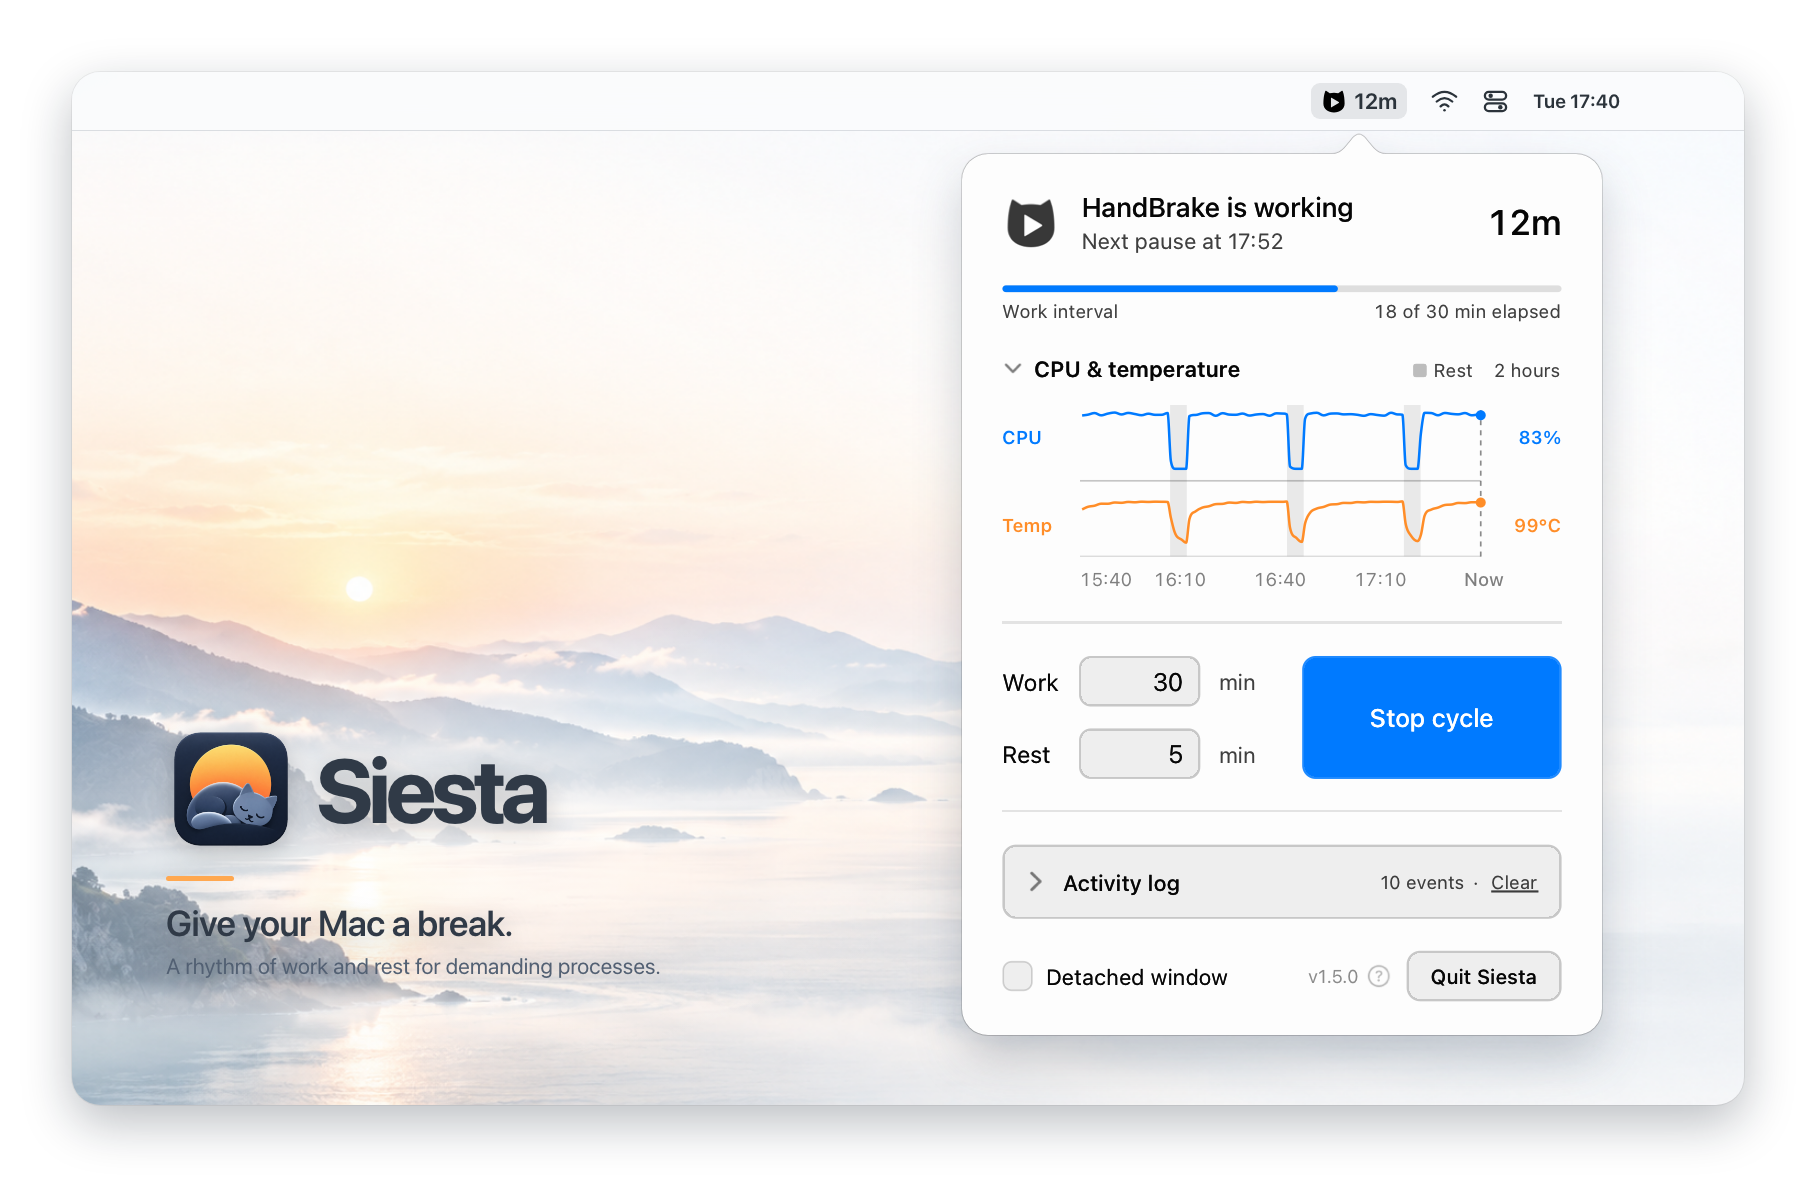
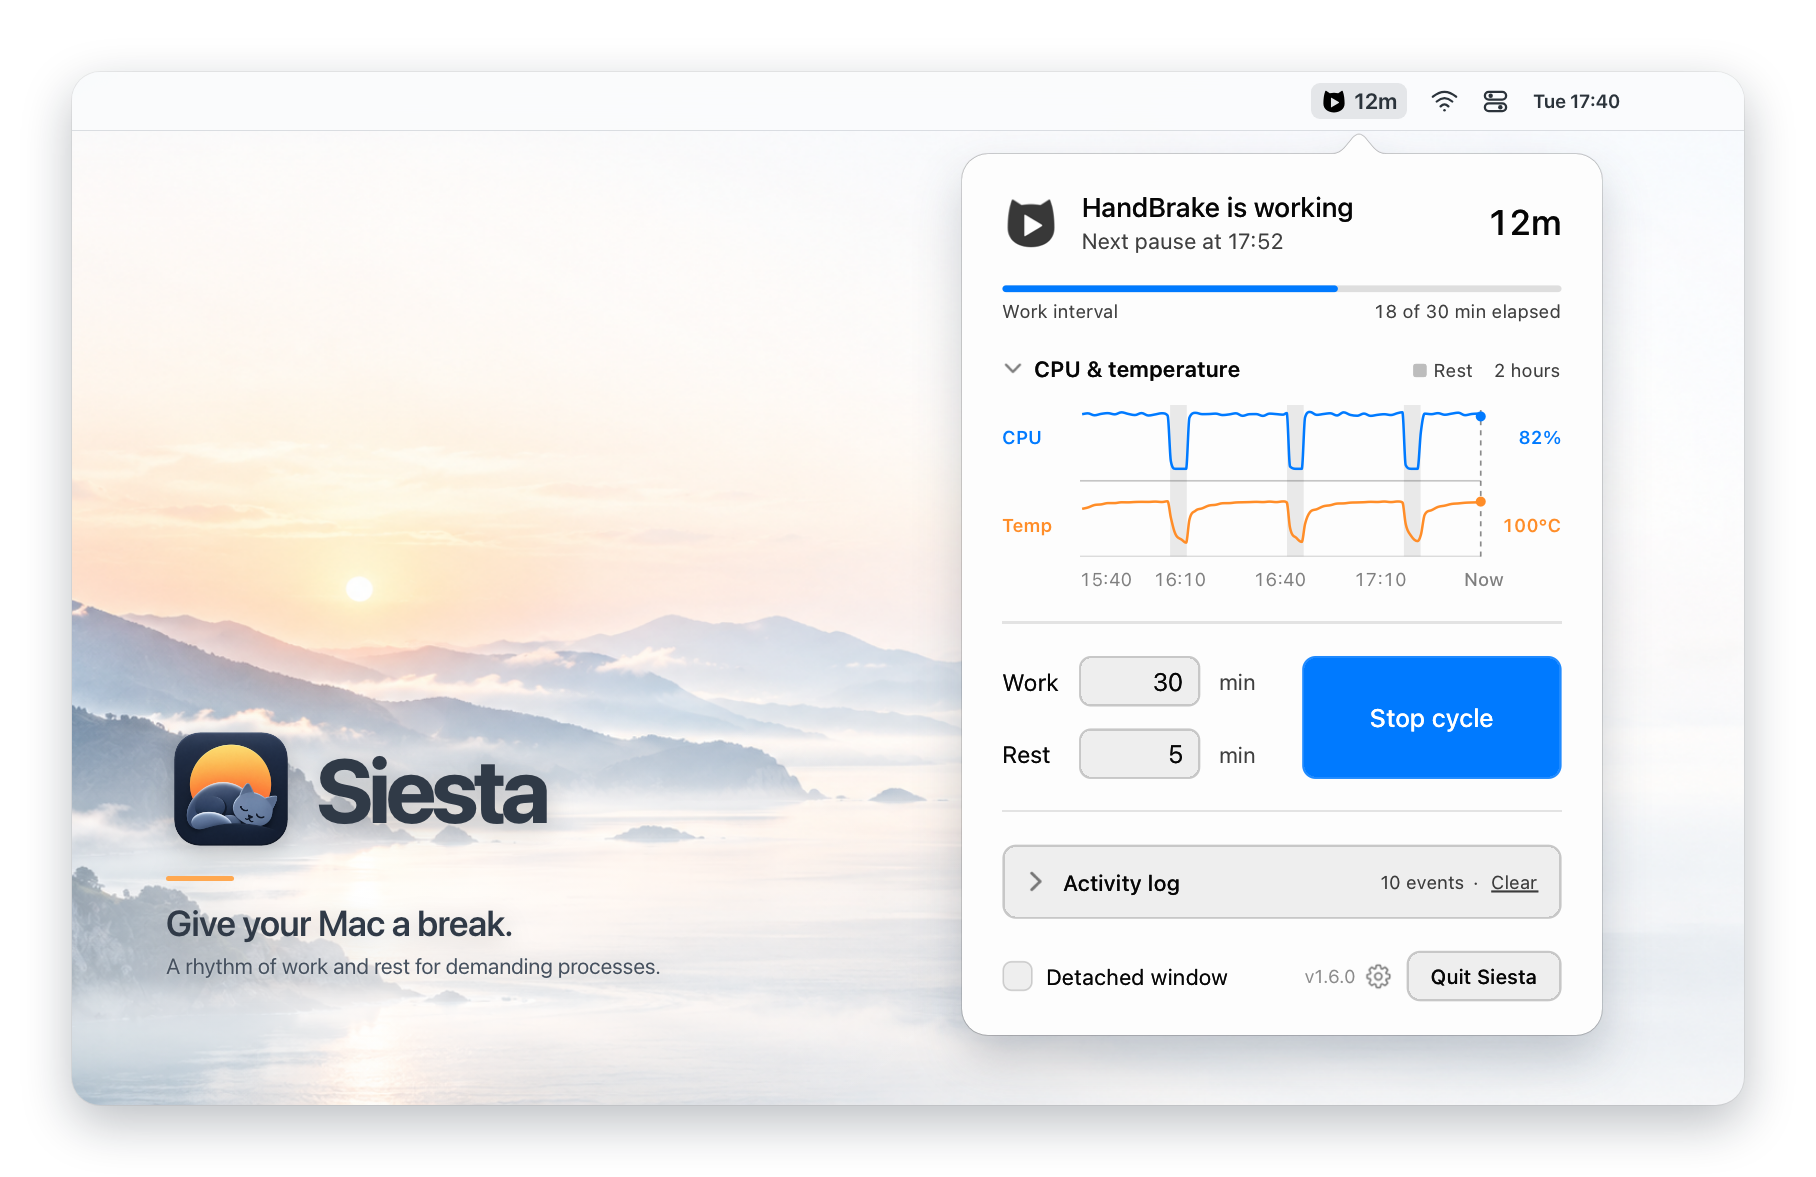
Version 1.6.0; README: settings section and image, hold the chart, automatic updates, new preference keys

Changed region(s): [[0.0308, 0.7341, 0.2467, 0.9176], [0.7093, 0.8258, 0.7709, 0.8564], [0.6167, 0.3364, 0.6476, 0.367]]

diff --git a/Sources/main.swift b/Sources/main.swift
@@ -2028,10 +2028,10 @@ final class App: NSObject, NSApplicationDelegate, NSTextFieldDelegate {
         guard let i = CommandLine.arguments.firstIndex(of: "--debug-scene") else { return }
         let out = URL(fileURLWithPath: CommandLine.arguments[i + 2])
         refresh()   // the stopped state first, as at launch: starting the cycle then reveals the chart
-        if name == "settings" {   // the settings page with the pointer on the back button, as on the board
+        if name == "settings" {   // the settings page; `--debug-hover` puts the pointer on the back button, as on the board
             lastCheck = (Calendar.current.date(bySettingHour: 17, minute: 12, second: 0, of: Date())!, "ok")
             showSettings(true, animated: false)
-            backButton.showHover()
+            if CommandLine.arguments.contains("--debug-hover") { backButton.showHover() }
             layoutPanel()
             DispatchQueue.main.asyncAfter(deadline: .now() + 0.8) { self.renderPanel(to: out) }
             return

diff --git a/README.md b/README.md
@@ -46,7 +46,7 @@ It changes to show whether the cycle is stopped, HandBrake is encoding, taking a
 ## The panel
 #### Everything Siesta knows, one click away.
 
-Clicking the menu bar icon opens a popover with the current state and a countdown to the next change, a thin progress line for the running interval, the Work and Rest minutes, the Start/Stop cycle button, a collapsible activity log and a Quit button. "Next pause at" and "Resumes at" show exact times, because pauses start on a whole minute and rests last exactly the minutes you set.
+Clicking the menu bar icon opens a popover with the current state and a countdown to the next change, a thin progress line for the running interval, the Work and Rest minutes, the Start/Stop cycle button, a collapsible activity log, a gear that opens the settings and a Quit button. "Next pause at" and "Resumes at" show exact times, because pauses start on a whole minute and rests last exactly the minutes you set.
 
 You can change Work and Rest while the cycle runs: the new value applies as soon as you confirm it with Return, Tab or a click elsewhere, and the change appears in the activity log. In the two fields, the ↑ and ↓ keys step the value by one minute, by ten with Shift. **Stop cycle** stops Siesta's cycle, never the encoder.
 
@@ -63,6 +63,8 @@ Expand **CPU & temperature** to see the recent history. The blue line is the enc
 
 The chart starts with a five-minute view, grows with the session, and then keeps a rolling six-hour history. Hovering over the plot shows the readings and the time of that moment; near the edge of a rest band the readout snaps to the moment the rest began or ended. When there are more readings than pixels the lines are drawn as smooth curves, never across the start or end of a rest. Pinch on the trackpad or use the mouse wheel over the plot to zoom around the cursor, down to one minute and never beyond the recorded history. Scroll sideways with two fingers, or drag the plot, to move back and forth in time; a chevron at the right edge means newer data is waiting and clicking it jumps back to now, while the one at the left edge jumps to the start of the history, both keeping the current zoom. The legend at the top right always shows how much time the view spans; after zooming or moving, a small reload icon next to it, or a double-click on the plot, returns to the automatic view.
 
+Siesta keeps recording while the cycle is stopped, so the chart also shows what HandBrake did before you pressed Start. With **Hold the chart while idle** turned on in the settings, the stretches in which HandBrake is not working are cut out instead: the chart stops scrolling, and when the work resumes two dotted lines with a narrow gap between them mark the cut. The time axis and the hover readout keep showing the real time on both sides.
+
 Collapse the chart with the chevron next to its title and the header keeps showing the current CPU and temperature readings, as in the compact view above, just the current readings. Siesta remembers whether you left the chart and the log open or closed.
 
 <a href="Resources/siesta-interface-expanded.webp">
@@ -78,6 +80,22 @@ Turn on **Detached window** to keep Siesta open as a regular window that floats 
 
 <a href="Resources/siesta-interface-detached.webp">
   <img src="Resources/siesta-interface-detached.webp" alt="Detached Siesta window in light and dark mode during a five-minute rest, with current CPU and temperature readings and the expanded activity log">
+</a>
+
+<br>
+
+## Settings
+#### A few choices, one click from the panel.
+
+The gear next to the version number slides the panel over to the settings page; the back chevron or Esc slides it back. Every change applies at once.
+
+- **General.** Open Siesta at login, follow the system appearance or force light or dark, and choose what the menu bar shows next to the cat: the countdown, the encoder's CPU usage and the hottest core's temperature, in any combination.
+- **Cycle.** **Start automatically** starts the cycle as soon as HandBrake starts working, so a queue launched in a hurry still gets its rests. **Save the activity log to a file** keeps a copy of every log line in `~/Library/Logs/Siesta/Siesta.log`, with a link that shows it in the Finder.
+- **Chart.** Smooth curves, magnetic rest bands for the hover readout, and Hold the chart while idle, described above.
+- **Updates.** Check for new releases automatically, install them automatically, or check now.
+
+<a href="Resources/siesta-interface-settings.webp">
+  <img src="Resources/siesta-interface-settings.webp" alt="The Siesta settings page in light and dark mode, with the General, Cycle, Chart and Updates groups">
 </a>
 
 <br>
@@ -104,9 +122,11 @@ xattr -d com.apple.quarantine /Applications/Siesta.app
 
 ## Updates
 
-The current version is shown in small print next to the Quit button, with a **?** button that opens this page. While Siesta is running it asks GitHub for the latest release at launch and then every six hours; nothing runs while the app is closed.
+The current version is shown in small print next to the Quit button, and again in the settings, where a link at the bottom opens this page. While Siesta is running it asks GitHub for the latest release at launch and then every six hours; nothing runs while the app is closed. **Check now** in the settings asks at once, and turning off **Check for updates automatically** stops the checks at launch and every six hours.
 
 When a newer release exists a yellow **Update to x.y.z** chip appears at the top of the panel, and only then. Clicking it downloads the release archive, verifies its SHA-256 checksum against the one published with the release, replaces the app in place (the old copy goes to the Trash) and relaunches. Because the new bundle is written by Siesta itself it carries no quarantine flag, so macOS does not ask for approval again: only the very first installation needs it. If the app lives in a folder Siesta cannot write to, or anything goes wrong, the chip simply opens the release page instead.
+
+With **Install updates automatically** turned on, Siesta does all of this by itself as soon as it finds a new release. It never interrupts a running cycle: if one is running, the update waits until you stop it.
 
 <br>
 
@@ -126,7 +146,7 @@ Launching the binary with `--start` starts the cycle immediately with the last s
 
 ## Preferences
 
-Stored in the `io.github.interstellar0verdrive.siesta` defaults domain: `work`, `rest` (minutes), `window` (detached window), `threshold` (CPU percentage considered "encoding", default 50, not exposed in the UI).
+Stored in the `io.github.interstellar0verdrive.siesta` defaults domain: `work`, `rest` (minutes), `window` (detached window), `appearance` (`system`, `light` or `dark`), `menuBarItems` (any of `time`, `cpu`, `temp`), `autoStart`, `logFile`, `smoothCurves`, `magneticBands`, `holdChart`, `checkUpdates`, `autoInstall` (all on or off, as in the settings page), and `threshold` (CPU percentage considered "encoding", default 50, not exposed in the UI). Open at login is kept by macOS, in System Settings → General → Login Items.
 
 <br>
 
@@ -150,7 +170,7 @@ A few things I would like Siesta to do, in no particular order and with no dates
 - **GPU in the chart.** Alongside CPU and temperature, where it says something meaningful about the encode.
 - **A thermal mode.** Rest when the chip has been above a chosen temperature for a while, instead of after a fixed number of minutes.
 
-Smaller refinements, such as a preferences page, will arrive along the way.
+Smaller refinements will arrive along the way.
 
 <br>
 
